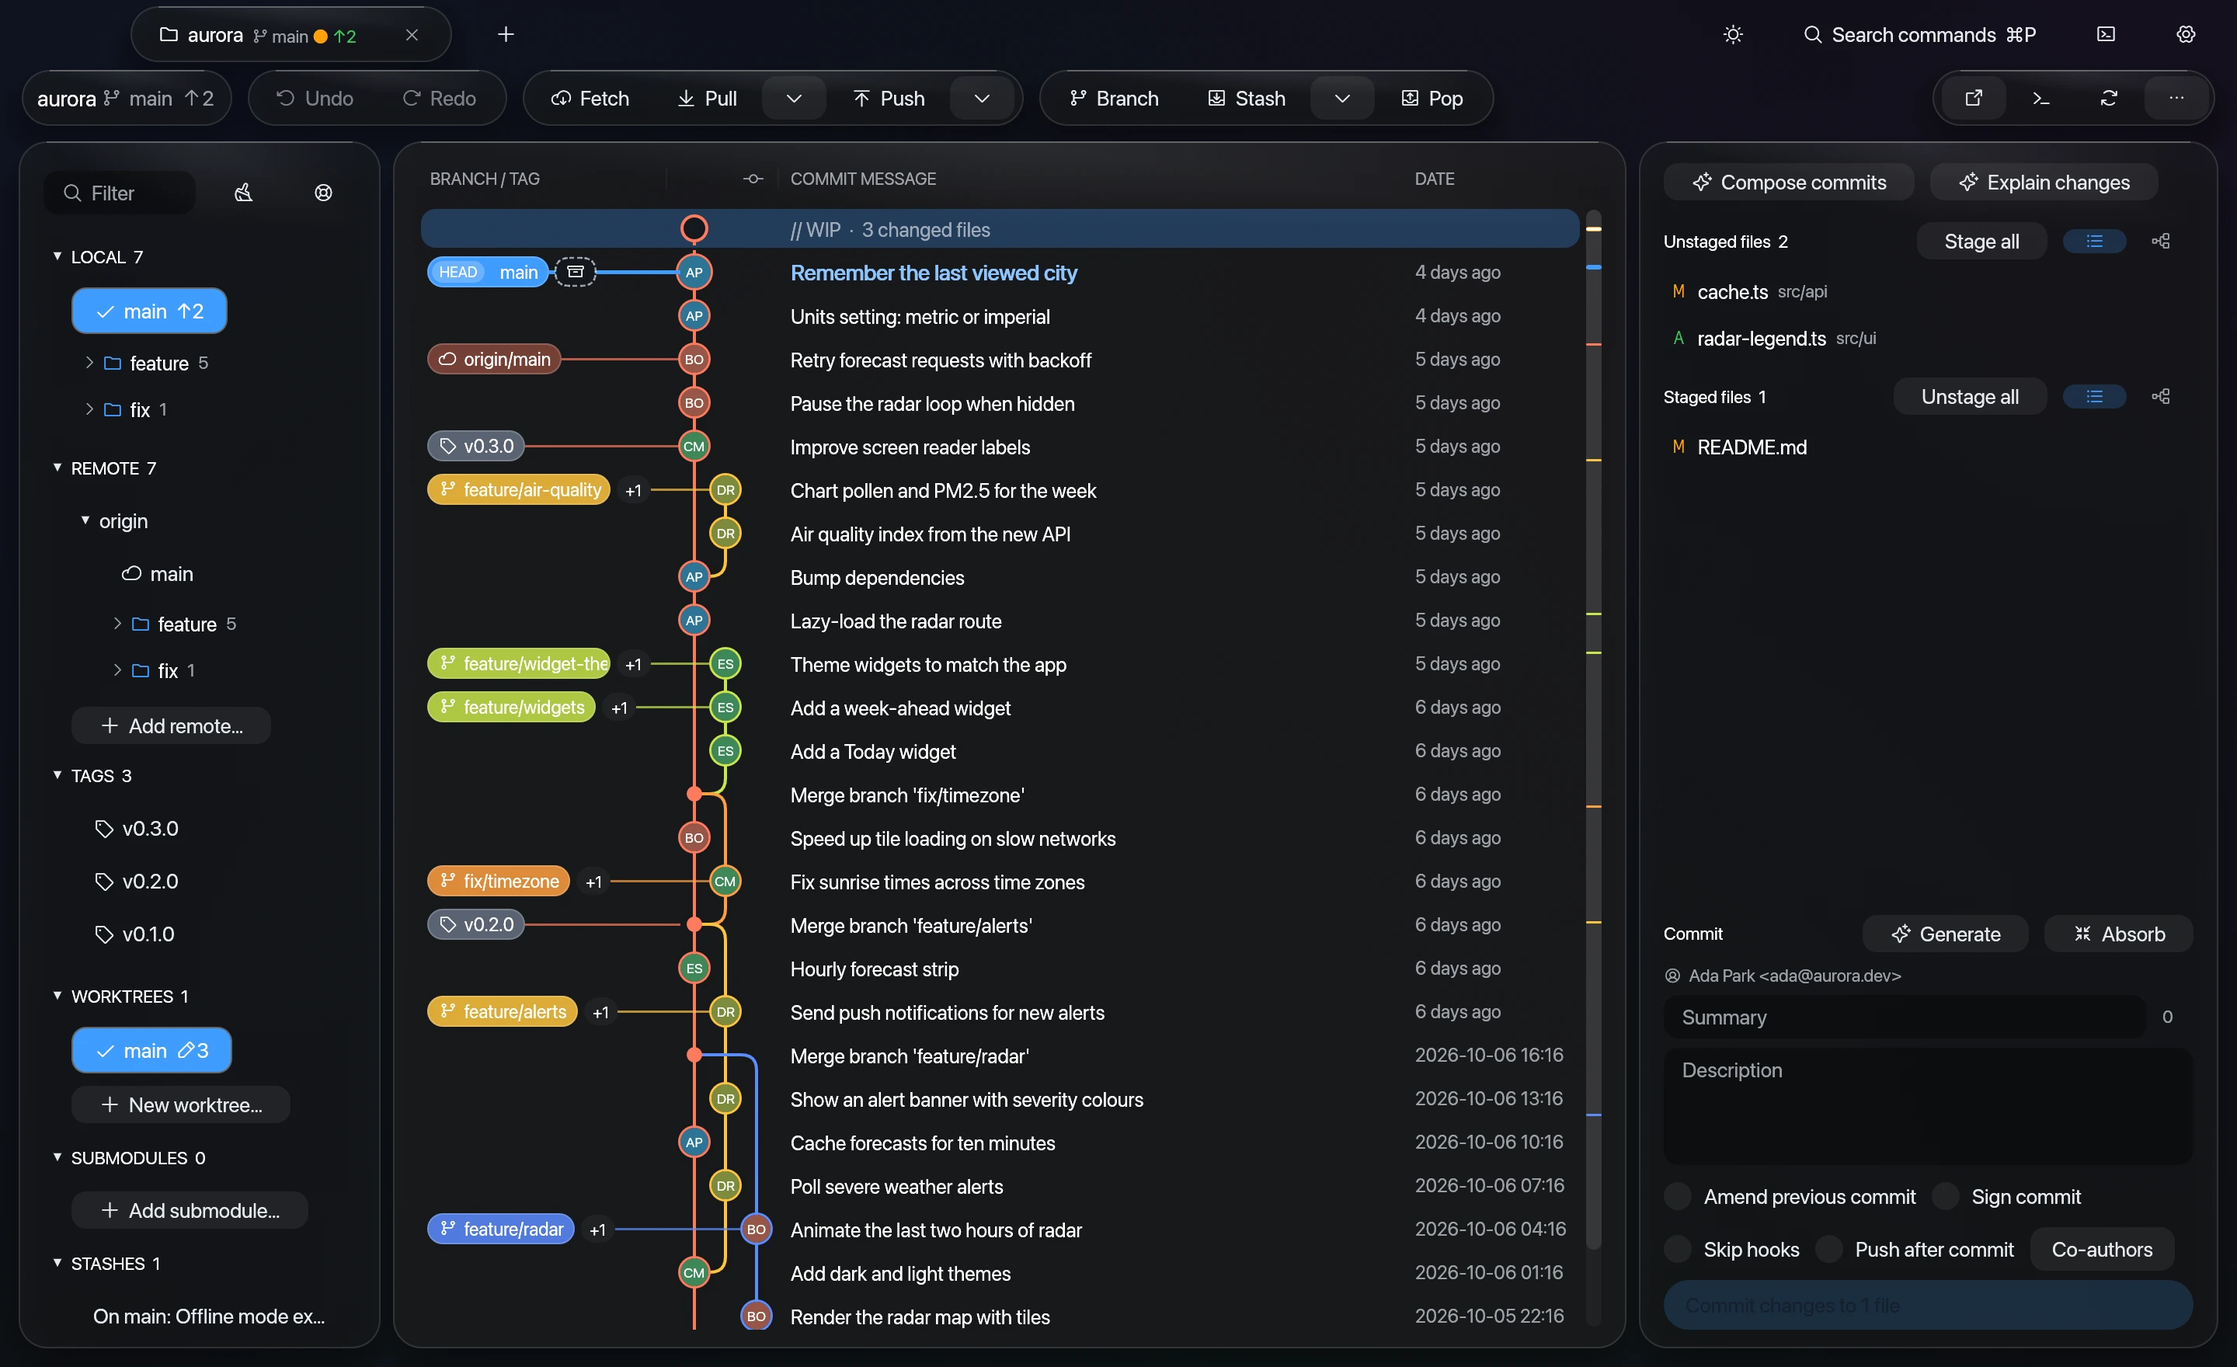
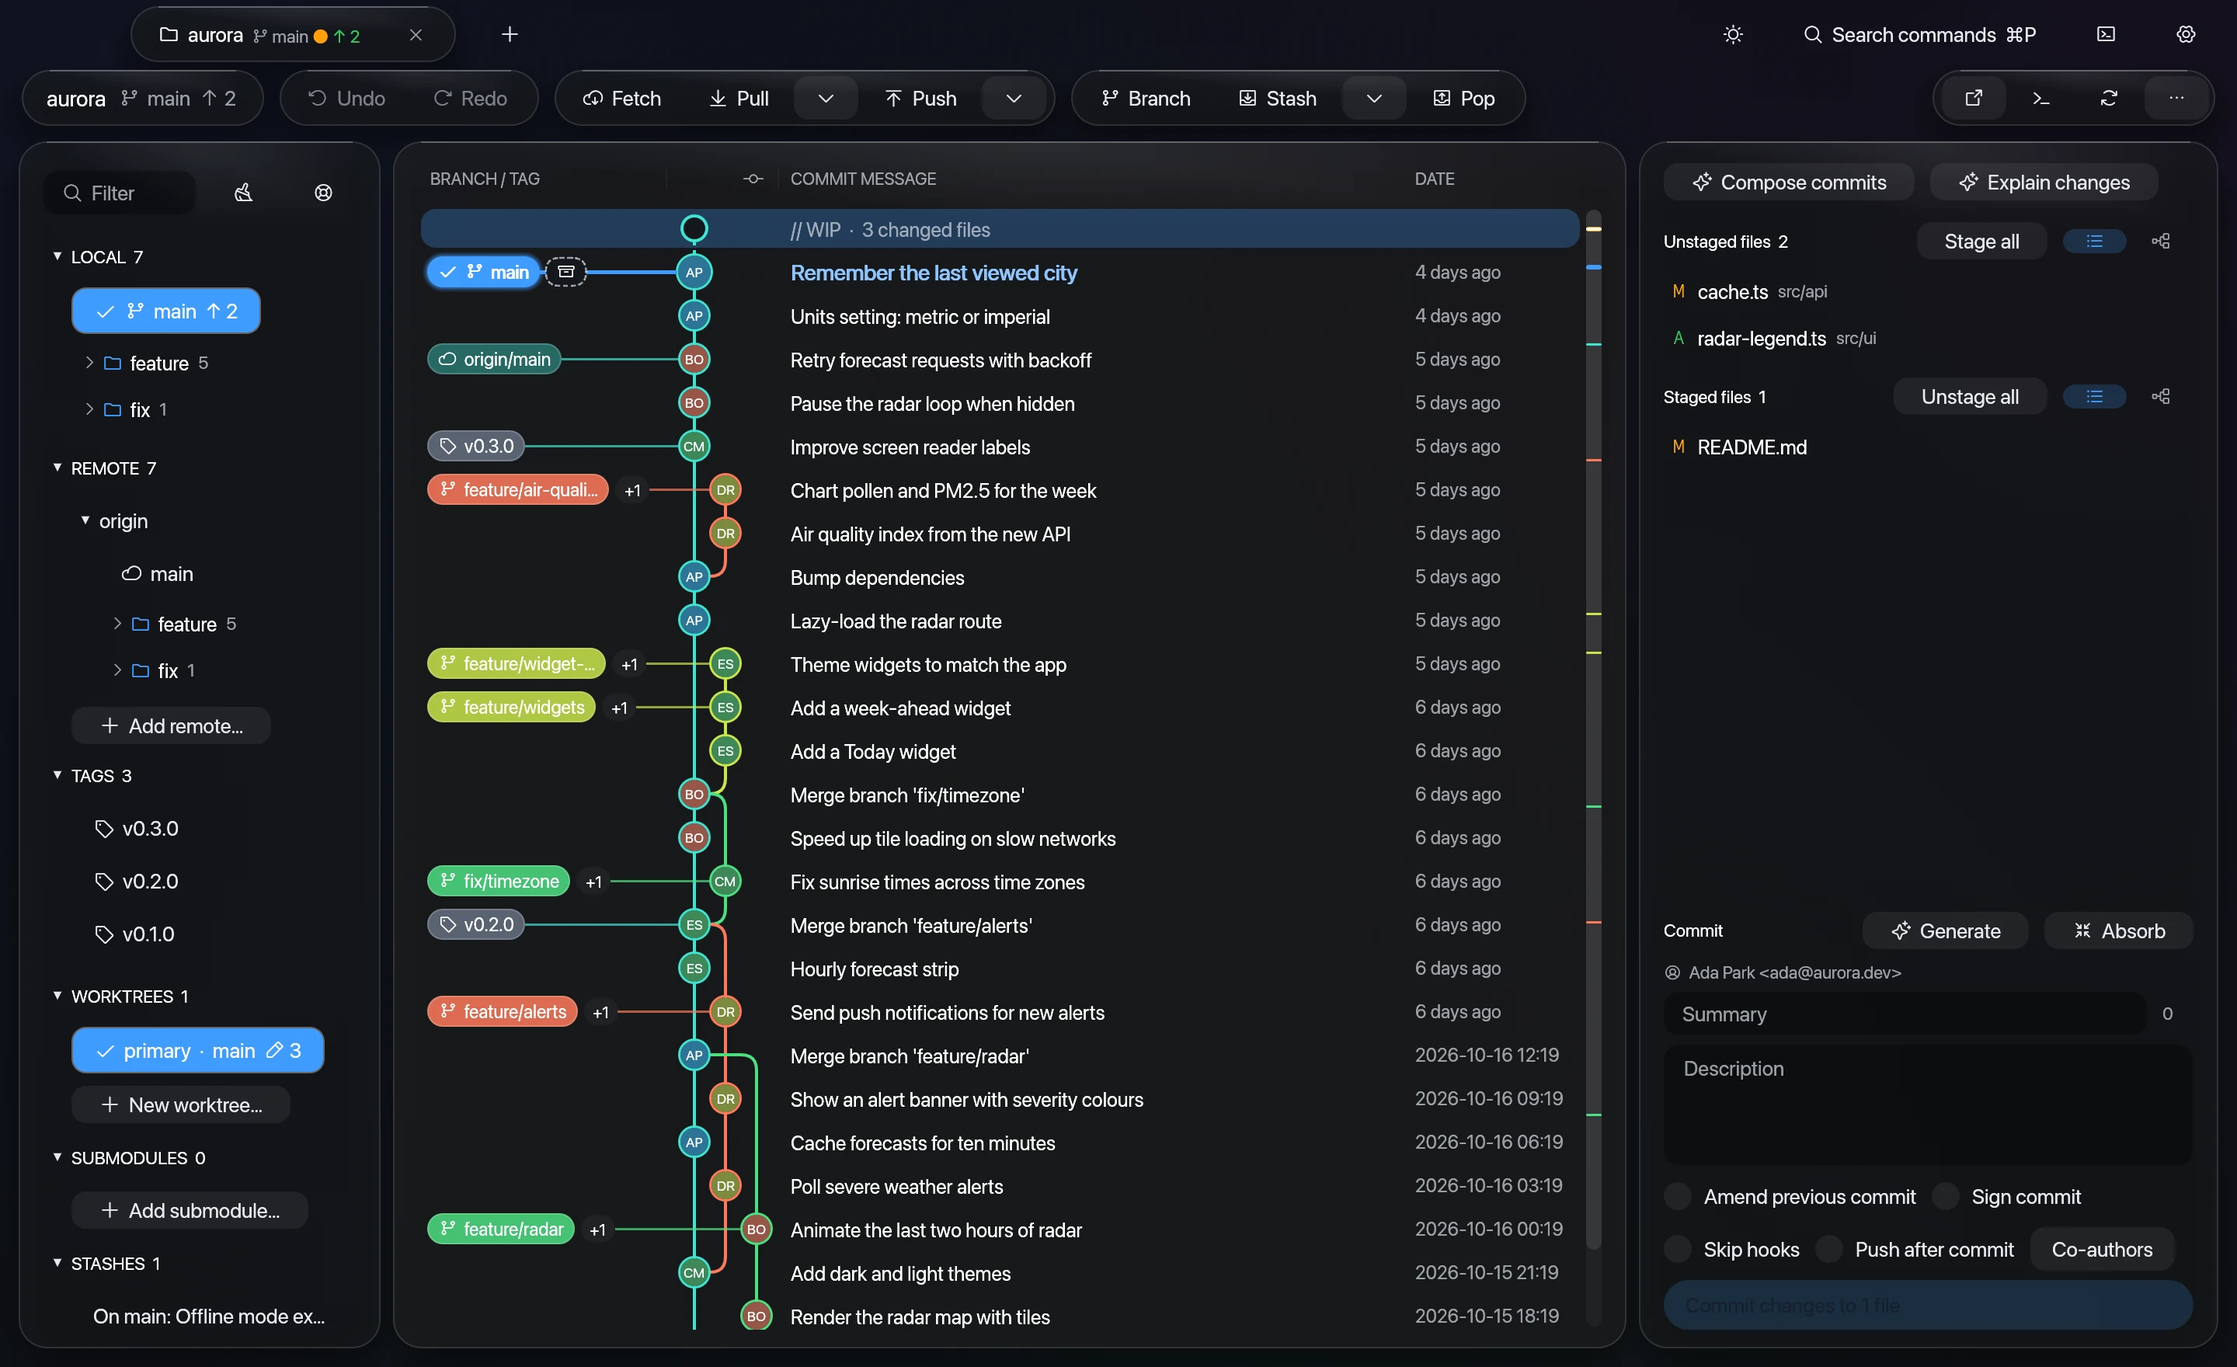
Glowing HEAD pill, long names cut with …, updates restart by themselves
- The checked-out branch's pill is bold and glows in the accent colour.
- Long repo, worktree and branch names share the toolbar's repo card
  (the longest cut first) instead of running into the next card; graph
  pills end a cut name in … instead of slicing a letter.
- Sidebar branches stack their icons like the graph pills (✓ or the
  worktree tree before the branch icon); hovering a branch checked out in
  another worktree says so, with its path.
- An installed update closes Glasir (asking first if needed) and starts
  the new version; the README's install command quits a running copy,
  replaces it and opens it again.
- CI runs the tests as three shards per OS, Windows ones through the real
  git in Git Bash.
- README: fresh screenshots.

diff --git a/src/ui/toolbar.rs b/src/ui/toolbar.rs
@@ -47,11 +47,10 @@ pub(super) fn toolbar(ui: &mut Ui, t: &RepoTab, s: &mut Settings, acts: &mut Vec
                     ui.add_space(12.0);
                     let here = t.data.as_ref().and_then(|d| d.here.filter(|_| d.worktrees.len() > 1).and_then(|i| Some((d, d.worktrees.get(i)?))));
                     let repo = here.and_then(|(d, _)| d.worktrees[0].path.rsplit(['/', '\\']).find(|p| !p.is_empty())).unwrap_or(&t.name);
-                    ui.label(RichText::new(repo).strong().size(14.5));
+                    let mut parts = vec![(RichText::new(repo).strong().size(14.5), None)];
                     if let Some((d, w)) = here {
                         let glyph = if d.here == Some(0) { icon::HOUSE } else { icon::TREE };
-                        ui.add_space(6.0);
-                        ui.label(RichText::new(format!("{glyph}  {}", super::sidebar::worktree_name(d, w))).color(theme::dim(ui))).on_hover_text(format!("Worktree {}", w.path));
+                        parts.push((RichText::new(format!("{glyph}  {}", super::sidebar::worktree_name(d, w))).color(theme::dim(ui)), Some(format!("Worktree {}", w.path))));
                     }
                     if let Some(d) = &t.data {
                         let st = &d.status;
@@ -65,8 +64,21 @@ pub(super) fn toolbar(ui: &mut Ui, t: &RepoTab, s: &mut Settings, acts: &mut Vec
                         if st.behind > 0 {
                             text += &format!("  {} {}", icon::ARROW_DOWN, st.behind);
                         }
-                        ui.add_space(6.0);
-                        ui.label(RichText::new(text).color(theme::dim(ui)));
+                        parts.push((RichText::new(text).color(theme::dim(ui)), None));
+                    }
+                    let natural: Vec<f32> = parts.iter().map(|(t, _)| egui::WidgetText::from(t.clone()).into_galley(ui, Some(egui::TextWrapMode::Extend), f32::INFINITY, egui::TextStyle::Body).size().x).collect();
+                    let widths = fit(&natural, ui.available_width() - 12.0 - 6.0 * (parts.len() - 1) as f32);
+                    for (i, ((text, tip), w)) in parts.into_iter().zip(widths).enumerate() {
+                        if i > 0 {
+                            ui.add_space(6.0);
+                        }
+                        let r = ui.scope(|ui| {
+                            ui.set_max_width(w);
+                            ui.add(egui::Label::new(text).truncate())
+                        });
+                        if let Some(tip) = tip {
+                            r.inner.on_hover_text(tip);
+                        }
                     }
                     ui.add_space(12.0);
                 });
@@ -125,6 +137,24 @@ pub(super) fn toolbar(ui: &mut Ui, t: &RepoTab, s: &mut Settings, acts: &mut Vec
             });
         });
     });
+}
+
+/// Widths for texts `natural` wide sharing `avail`: what doesn't fit is cut from the longest
+/// first, down to one common width, so short ones stay whole.
+fn fit(natural: &[f32], avail: f32) -> Vec<f32> {
+    let mut sorted = natural.to_vec();
+    sorted.sort_by(f32::total_cmp);
+    let (mut left, mut n, mut cap) = (avail.max(0.0), natural.len(), f32::INFINITY);
+    for w in sorted {
+        if w * n as f32 <= left {
+            left -= w;
+            n -= 1;
+        } else {
+            cap = left / n as f32;
+            break;
+        }
+    }
+    natural.iter().map(|w| w.min(cap)).collect()
 }
 
 /// Hand the repository to the user's own tools (also in ⌘P).
@@ -279,5 +309,19 @@ fn toolbar_local(ui: &mut Ui, newest: Option<&git::Stash>, compact: bool, acts: 
                 acts.push(Action::Git(pop_stash(s)));
             }
         }
+    }
+}
+
+#[cfg(test)]
+mod tests {
+    use super::fit;
+
+    #[test]
+    fn long_names_are_cut_first_and_short_ones_stay_whole() {
+        assert_eq!(fit(&[100.0, 50.0], 200.0), [100.0, 50.0]);
+        assert_eq!(fit(&[300.0, 50.0, 50.0], 200.0), [100.0, 50.0, 50.0]);
+        assert_eq!(fit(&[300.0, 120.0, 50.0], 200.0), [75.0, 75.0, 50.0]);
+        assert_eq!(fit(&[300.0, 300.0], 200.0), [100.0, 100.0]);
+        assert_eq!(fit(&[80.0, 40.0], -5.0), [0.0, 0.0]);
     }
 }

diff --git a/src/ui/update.rs b/src/ui/update.rs
@@ -15,11 +15,25 @@ pub(super) struct Updater {
     install: Option<Task<Res<PathBuf>>>,
     /// Installed: relaunch this.
     ready: Option<PathBuf>,
+    /// The relaunch helper is waiting for this process to exit.
+    relaunching: bool,
 }
 
 impl App {
     pub(super) fn check_updates(&mut self, ctx: &egui::Context) {
         self.update.check = Some(Task::spawn(ctx, update::check));
+    }
+
+    /// Closes the window (asking first as any quit does) and starts the installed version once it's gone.
+    fn restart(&mut self, ctx: &egui::Context) {
+        let Some(p) = &self.update.ready else { return };
+        if !self.update.relaunching {
+            match update::relaunch(p) {
+                Ok(()) => self.update.relaunching = true,
+                Err(e) => return self.toast(ctx, e, true),
+            }
+        }
+        ctx.send_viewport_cmd(egui::ViewportCommand::Close);
     }
 
     pub(super) fn update_pill(&mut self, ui: &mut Ui) {
@@ -29,7 +43,10 @@ impl App {
             self.update.found = r;
         }
         match Task::poll(&mut self.update.install) {
-            Some(Ok(p)) => self.update.ready = Some(p),
+            Some(Ok(p)) => {
+                self.update.ready = Some(p);
+                self.restart(&ctx);
+            }
             Some(Err(e)) => {
                 let page = self.update.found.as_ref().map_or(String::new(), |r| format!("\nDownload it from {}", r.page));
                 self.toast(&ctx, format!("Update failed: {e}{page}"), true);
@@ -37,11 +54,8 @@ impl App {
             None => {}
         }
         if let Some(p) = self.update.ready.clone() {
-            if theme::pill(ui, format!("{}  Restart to update", icon::ARROWS_CLOCKWISE)).on_hover_text("The new version is installed: restart Glasir to use it").clicked() {
-                match update::relaunch(&p) {
-                    Ok(()) => ctx.send_viewport_cmd(egui::ViewportCommand::Close),
-                    Err(e) => self.toast(&ctx, e, true),
-                }
+            if theme::pill(ui, format!("{}  Restart to update", icon::ARROWS_CLOCKWISE)).on_hover_text(format!("The new version is installed at {}: restart Glasir to use it", p.display())).clicked() {
+                self.restart(&ctx);
             }
         } else if self.update.install.is_some() {
             ui.spinner();

diff --git a/src/ui/graph_view/mod.rs b/src/ui/graph_view/mod.rs
@@ -81,11 +81,25 @@ fn ref_pill(ui: &Ui, min: Pos2, max_w: f32, rf: &Ref, synced: bool, col: Color32
         RefKind::Tag => theme::tag(ui),
     };
     let label_col = Color32::WHITE.gamma_multiply(if faded { 0.6 } else { 1.0 });
-    let g = p.layout_no_wrap(label, FontId::proportional(12.0), label_col);
+    let mut job = egui::text::LayoutJob::simple_singleline(label, FontId::proportional(12.0), label_col);
+    job.wrap = egui::text::TextWrapping::truncate_at_width((max_w - 14.0).max(0.0));
+    let g = p.layout_job(job);
     let pill = Rect::from_min_size(min, vec2((g.size().x + 14.0).min(max_w).max(10.0), 20.0));
+    if head_pill {
+        for (grow, a) in [(3.0, 0.1), (2.0, 0.18), (1.0, 0.3)] {
+            p.rect_filled(pill.expand(grow), 10.0 + grow, hc.gamma_multiply(a));
+        }
+    }
     p.rect_filled(pill, 10.0, fill);
-    p.rect_stroke(pill, 10.0, Stroke::new(1.0, Color32::from_white_alpha(45)), egui::StrokeKind::Inside);
-    p.with_clip_rect(pill.shrink(2.0)).galley(pos2(pill.left() + 7.0, pill.center().y - g.size().y / 2.0), g, label_col);
+    if !head_pill {
+        p.rect_stroke(pill, 10.0, Stroke::new(1.0, Color32::from_white_alpha(45)), egui::StrokeKind::Inside);
+    }
+    let text_at = pos2(pill.left() + 7.0, pill.center().y - g.size().y / 2.0);
+    let clip = p.with_clip_rect(pill.shrink(2.0));
+    if head_pill {
+        clip.galley(text_at + vec2(0.6, 0.0), g.clone(), label_col);
+    }
+    clip.galley(text_at, g, label_col);
     pill
 }
 
@@ -99,7 +113,7 @@ fn tip_now(r: &egui::Response, text: String) {
 fn pill_tip(rf: &Ref, up: Option<&Ref>) -> String {
     let up = up.map_or(String::new(), |u| format!("  ·  {}", u.name));
     let msg = if rf.message.is_empty() { String::new() } else { format!("\n{}", rf.message) };
-    let wt = rf.worktree.as_ref().map_or(String::new(), |p| format!("\nChecked out in {p}"));
+    let wt = rf.worktree.as_ref().map_or(String::new(), |p| format!("\n{}  Checked out in another worktree: {p}\nA branch can be checked out in one worktree at a time; double-click switches this tab there.", icon::TREE));
     format!("{}{up}{wt}{msg}", ref_label(rf, false))
 }
 

diff --git a/src/ui/sidebar/mod.rs b/src/ui/sidebar/mod.rs
@@ -111,9 +111,13 @@ fn stacked<'a>(d: &'a RepoData, locals: &[&'a crate::git::Ref]) -> Vec<(&'a crat
 /// A local branch row: marker, stack / ahead / behind badges, menus, drag-and-drop. `name` is what
 /// it shows (the last segment inside a folder); `depth` its stack depth.
 fn local_row(ui: &mut Ui, d: &RepoData, r: &crate::git::Ref, name: &str, depth: usize, acts: &mut Vec<Action>) {
-    let glyph = if r.head { icon::CHECK } else if r.worktree.is_some() { icon::TREE } else { icon::GIT_BRANCH };
+    let at = match (r.head, r.worktree.is_some()) {
+        (true, _) => format!("{}  ", icon::CHECK),
+        (_, true) => format!("{}  ", icon::TREE),
+        _ => String::new(),
+    };
     let indent = if depth > 0 { format!("{}{} ", "    ".repeat(depth - 1), icon::ARROW_ELBOW_DOWN_RIGHT) } else { String::new() };
-    let mut text = format!("{indent}{glyph}  {name}");
+    let mut text = format!("{indent}{at}{}  {name}", icon::GIT_BRANCH);
     if depth == 0 && !stack::children(d, &r.name).is_empty() {
         text += &format!("  {}", icon::STACK);
     }
@@ -138,6 +142,9 @@ fn local_row(ui: &mut Ui, d: &RepoData, r: &crate::git::Ref, name: &str, depth: 
     let mut tip = if r.gone { format!("{}\nUpstream branch is gone", r.name) } else { r.name.clone() };
     if r.head {
         tip += "\nCurrent branch (HEAD)";
+    }
+    if let Some(p) = &r.worktree {
+        tip += &format!("\n{}  Checked out in another worktree: {p}\nA branch can be checked out in one worktree at a time; double-click switches this tab there.", icon::TREE);
     }
     if let Some(p) = stack::parent(d, &r.name) {
         tip += &format!("\nStacked on {p}");

diff --git a/docs/features.md b/docs/features.md
@@ -29,7 +29,7 @@ Changing one of these means re-reviewing every feature listed for it in `feature
 | `ui::diff_view::show` (src/ui/diff_view.rs:217) | 20 |
 | `repo::action::DiffSrc::change` (src/repo/action.rs:34) | 20 |
 | `ui::sidebar::ref_menus::tag_menu` (src/ui/sidebar/ref_menus.rs:276) | 14 |
-| `ui::graph_view::show` (src/ui/graph_view/mod.rs:116) | 14 |
+| `ui::graph_view::show` (src/ui/graph_view/mod.rs:128) | 14 |
 | `repo::data::RepoData::split_remote` (src/repo/data.rs:290) | 13 |
 | `ui::sidebar::ref_menus::remote_menu` (src/ui/sidebar/ref_menus.rs:244) | 12 |
 | `repo::rebase::head_state` (src/repo/rebase.rs:584) | 12 |
@@ -64,7 +64,7 @@ Changing one of these means re-reviewing every feature listed for it in `feature
 
 #### Update from GitHub releases `app.self-update`
 - **Entry:** src/ui/update.rs update_pill (title bar); Settings → Updates; check at startup in App::new
-- **Own code:** `ui::update::App::check_updates`, `ui::update::App::update_pill`, `update::agent`, `update::asset_name`, `update::check`, `update::install`, `update::install_to`, `update::newer`, `update::parse`, `update::relaunch`, `update::stage`, `update::swap`, `update::target`, `update::unpack`
+- **Own code:** `ui::update::App::check_updates`, `ui::update::App::restart`, `ui::update::App::update_pill`, `update::agent`, `update::asset_name`, `update::check`, `update::install`, `update::install_to`, `update::newer`, `update::parse`, `update::relaunch`, `update::stage`, `update::swap`, `update::target`, `update::unpack`
 
 #### Open a repository passed on the command line `app.cli-open`
 - **Entry:** src/main.rs:49 first CLI argument; src/ui/app.rs:117 App::new -> open
@@ -246,6 +246,7 @@ Changing one of these means re-reviewing every feature listed for it in `feature
 #### Per-repo toolbar layout and buttons `app.toolbar`
 - **Entry:** top panel of a repo tab (toolbar.rs): Refresh F5, terminal toggle, open-in menu, web globe, overflow menu, branch/ahead-behind label, Undo/Redo, Fetch/Pull/Push menus, Branch/Stash/Pop, conflict chip, fetch-failed chip, progress/cancel; each button's action is owned by its feature
 - **Platform:** `platform.design-system`, `platform.format`
+- **Own code:** `ui::toolbar::fit`
 - **Shared:** `ui::toolbar::history_tools` (7), `ui::toolbar::label` (3), `ui::toolbar::open_items` (4), `ui::toolbar::pull_hint` (2), `ui::toolbar::toolbar` (7), `ui::toolbar::toolbar_local` (5), `ui::toolbar::toolbar_remote` (5)
 
 #### Toolbar Undo / Redo buttons `app.toolbar-undo-redo`

diff --git a/README.md b/README.md
@@ -26,12 +26,16 @@ signing, partial clones and `fsmonitor`.
 macOS (Apple Silicon), in Terminal:
 
 ```sh
-curl -fsSL -o /tmp/Glasir.zip https://github.com/cchvuth/Glasir/releases/latest/download/Glasir-macos-arm64.zip \
-  && ditto -x -k /tmp/Glasir.zip /Applications && rm /tmp/Glasir.zip
+curl -fsSL -o /tmp/Glasir.zip https://github.com/cchvuth/Glasir/releases/latest/download/Glasir-macos-arm64.zip &&
+  { pgrep -qf /Applications/Glasir.app/ && osascript -e 'quit app "Glasir"'; while pgrep -qf /Applications/Glasir.app/; do sleep 0.5; done; } &&
+  rm -rf /Applications/Glasir.app && ditto -x -k /tmp/Glasir.zip /Applications && rm /tmp/Glasir.zip &&
+  open /Applications/Glasir.app
 ```
 
-Downloaded this way the app isn't quarantined, so macOS opens it without the
-"Open Anyway" step, and later versions install from the update pill in the title bar.
+It also updates an installed copy: Glasir quits (asking first if work is unsaved), is
+replaced and opens again. Downloaded this way the app isn't quarantined, so macOS opens it
+without the "Open Anyway" step, and later versions install from the update pill in the
+title bar, which restarts Glasir by itself.
 Linux and Windows builds: see [Download](#download).
 
 ## Why "Glasir"?
@@ -83,7 +87,7 @@ The name fits a Git client:
 - **Hover a branch pill** in the graph to highlight its history and fade the rest.
 - **Hide / Solo** branches (hover a sidebar row, remote or folder for its eye button), **first-parent** view.
 - **Stashes** drawn next to the commit they were made on.
-- **Unmistakable HEAD**: the checked-out commit's title is larger, bold and in the accent colour, and its branch pill leads with a ✓ (a **detached HEAD** badge when detached); the sidebar marks the current branch with a ✓. Scrolled away, a chip ("↑ main (HEAD)") at the edge jumps back to it.
+- **Unmistakable HEAD**: the checked-out commit's title is larger, bold and in the accent colour, and its branch pill is bold, glows and leads with a ✓ (a **detached HEAD** badge when detached); the sidebar marks the current branch with a ✓. Scrolled away, a chip ("↑ main (HEAD)") at the edge jumps back to it.
 - **Minimap rail** with markers for HEAD, selection, WIP, search hits and branch tips.
 - **⌘F search across all history**, not just the loaded commits: free text matches message, author or SHA;
   operators `author:` `committer:` `message:` `path:` `code:` (added/removed) `regex:` (changed lines)
